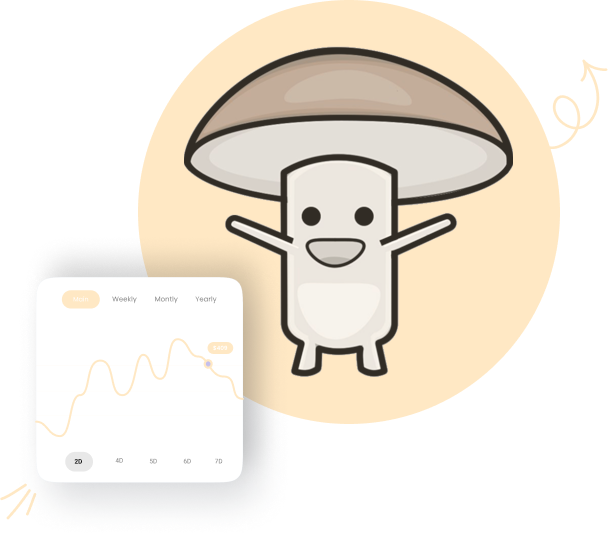
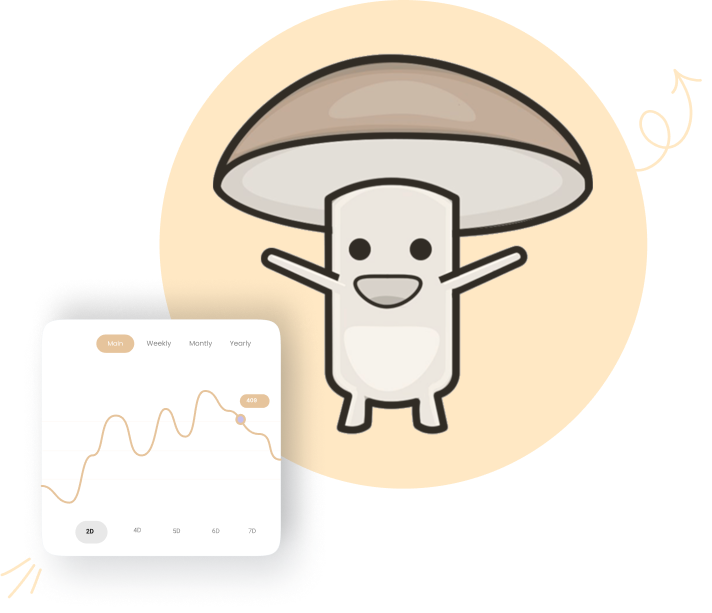
Отредактирован верхний баннер

diff --git a/frontend_fungi/src/pages/main-page/components/main-banner/MainBanner.css b/frontend_fungi/src/pages/main-page/components/main-banner/MainBanner.css
@@ -1,9 +1,7 @@
 .main-banner {
     width: 1500px;
     height: 606px;
-    background: #F9F9F9;
     display: flex;
-    justify-content: center;
     margin-top: 238px;
 }
 
@@ -11,7 +9,7 @@
     display: flex;
     width: 100%;
     height: 100%;
-    box-sizing: border-box;
+    font-family: Raleway;
 }
 
 .banner-text {
@@ -20,61 +18,67 @@
     flex-direction: column;
     padding-right: 40px;
     width: 507px;
-    font-family: Raleway;
     align-items: flex-start;
 }
 
 .banner-top-sign {
     color: #201F1F;
-    opacity: 50%;
     margin-bottom: 25px;
+    display: flex;
+    align-items: center;
+    gap: 18px;
+    opacity: 50%;
 }
 
 .banner-title {
-    font-size: 65px;
+    font-size: 75px;
     font-weight: bold;
-    color: #201F1F;
-    margin-bottom: 25px;
+    color: #323142;
+    margin-bottom: 26px;
     line-height: 120%;
     letter-spacing: -3px;
 }
 
 .banner-description {
     text-align: justify;
-    font-size: 19px;
+    font-size: 23px;
     color: #444444;
-    margin-bottom: 32px;
+    margin-bottom: 34px;
     line-height: 28px;
-    max-width: 499px;
+    max-width: 630px;
+    opacity: 70%;
 }
 
 .banner-buttons {
     display: flex;
-    gap: 18px;
+    gap: 20px;
 }
 
 .explore-button, .pro-button {
-    font-family: Raleway;
     font-weight: bold;
     font-size: 16px;
     border-radius: 12px;
     cursor: pointer;
     transition: all 0.3s ease;
     height: 59px;
+    align-items: center;
+    justify-content: center;
 }
 
 .explore-button {
-    background-color: #B28550;
-    color: white;
+    background-color: #FFE8C5;
+    color: #323142;
     border: none;
-    width: 156px;
+    width: 163px;
+    font-size: 16px;
+    letter-spacing: 0px;
 }
 
 .pro-button {
     background-color: transparent;
-    color: #B28550;
-    border: 2px solid #B28550;
-    width: 110px;
+    color: #E6C49C;
+    border: 2px solid #E6C49C;
+    width: 139px;
 }
 
 .explore-button:hover {
@@ -86,7 +90,6 @@
 }
 
 .banner-image {
-    margin-top: 20px;
     flex: 1;
     display: flex;
     align-items: flex-start;

diff --git a/frontend_fungi/src/pages/main-page/components/main-banner/MainBanner.tsx b/frontend_fungi/src/pages/main-page/components/main-banner/MainBanner.tsx
@@ -1,4 +1,5 @@
 import "./MainBanner.css";
+import { LineMainBannerSignSVG } from '@shared/ui';
 
 const MainBanner: React.FC = () => {
     return (
@@ -6,15 +7,16 @@ const MainBanner: React.FC = () => {
             <div className="banner-content">
                 <div className="banner-text">
                     <p className="banner-top-sign">
+                        <LineMainBannerSignSVG />
                         БОЛЕЕ 1000 ПОЛЬЗОВАТЕЛЕЙ
                     </p>
-                    <h1 className="banner-title">ИССЛЕДУЙ МИР ГРИБОВ С <span style={{color: "#B28550"}}>FUNGI</span></h1>
+                    <h1 className="banner-title">ИССЛЕДУЙ МИР ГРИБОВ С <span style={{color: "#E6C49C"}}>FUNGI</span></h1>
                     <p className="banner-description">
                         <span style={{color: "#2C2C2C", fontWeight: "bold"}}>FUNGI</span> - электронная энциклопедия о грибах, которая предоставляет пользователям информацию о залежах грибов, их приготовлении, интересных фактах и многом другом
                     </p>
                     <div className="banner-buttons">
-                        <button className="explore-button">Исследовать</button>
-                        <button className="pro-button">Go Pro</button>
+                        <button className="explore-button">ИССЛЕДОВАТЬ</button>
+                        <button className="pro-button">К СТАТЬЯМ</button>
                     </div>
                 </div>
                 <div className="banner-image">

diff --git a/frontend_fungi/src/shared/ui/svg-components/LineMainBannerSignSVG.tsx b/frontend_fungi/src/shared/ui/svg-components/LineMainBannerSignSVG.tsx
@@ -1,0 +1,7 @@
+export const LineMainBannerSignSVG: React.FC = () => {
+    return (
+        <svg width="54" height="1" viewBox="0 0 54 1" fill="none" xmlns="http://www.w3.org/2000/svg">
+            <line opacity="0.5" y1="0.5" x2="54" y2="0.5" stroke="#201F1F"/>
+        </svg>
+    );
+};

diff --git a/frontend_fungi/src/shared/ui/index.ts b/frontend_fungi/src/shared/ui/index.ts
@@ -3,3 +3,4 @@ export { FilterButtons } from './FilterButtons';
 export { Card } from './Card';
 export { GridButton } from './GridButton/index';
 export { ArrowSvg } from './svg-components';
+export { LineMainBannerSignSVG } from './svg-components';

diff --git a/frontend_fungi/src/shared/ui/svg-components/index.ts b/frontend_fungi/src/shared/ui/svg-components/index.ts
@@ -1,1 +1,2 @@
 export { ArrowSvg } from './ArrowSVG.tsx';
+export { LineMainBannerSignSVG } from './LineMainBannerSignSVG.tsx';
